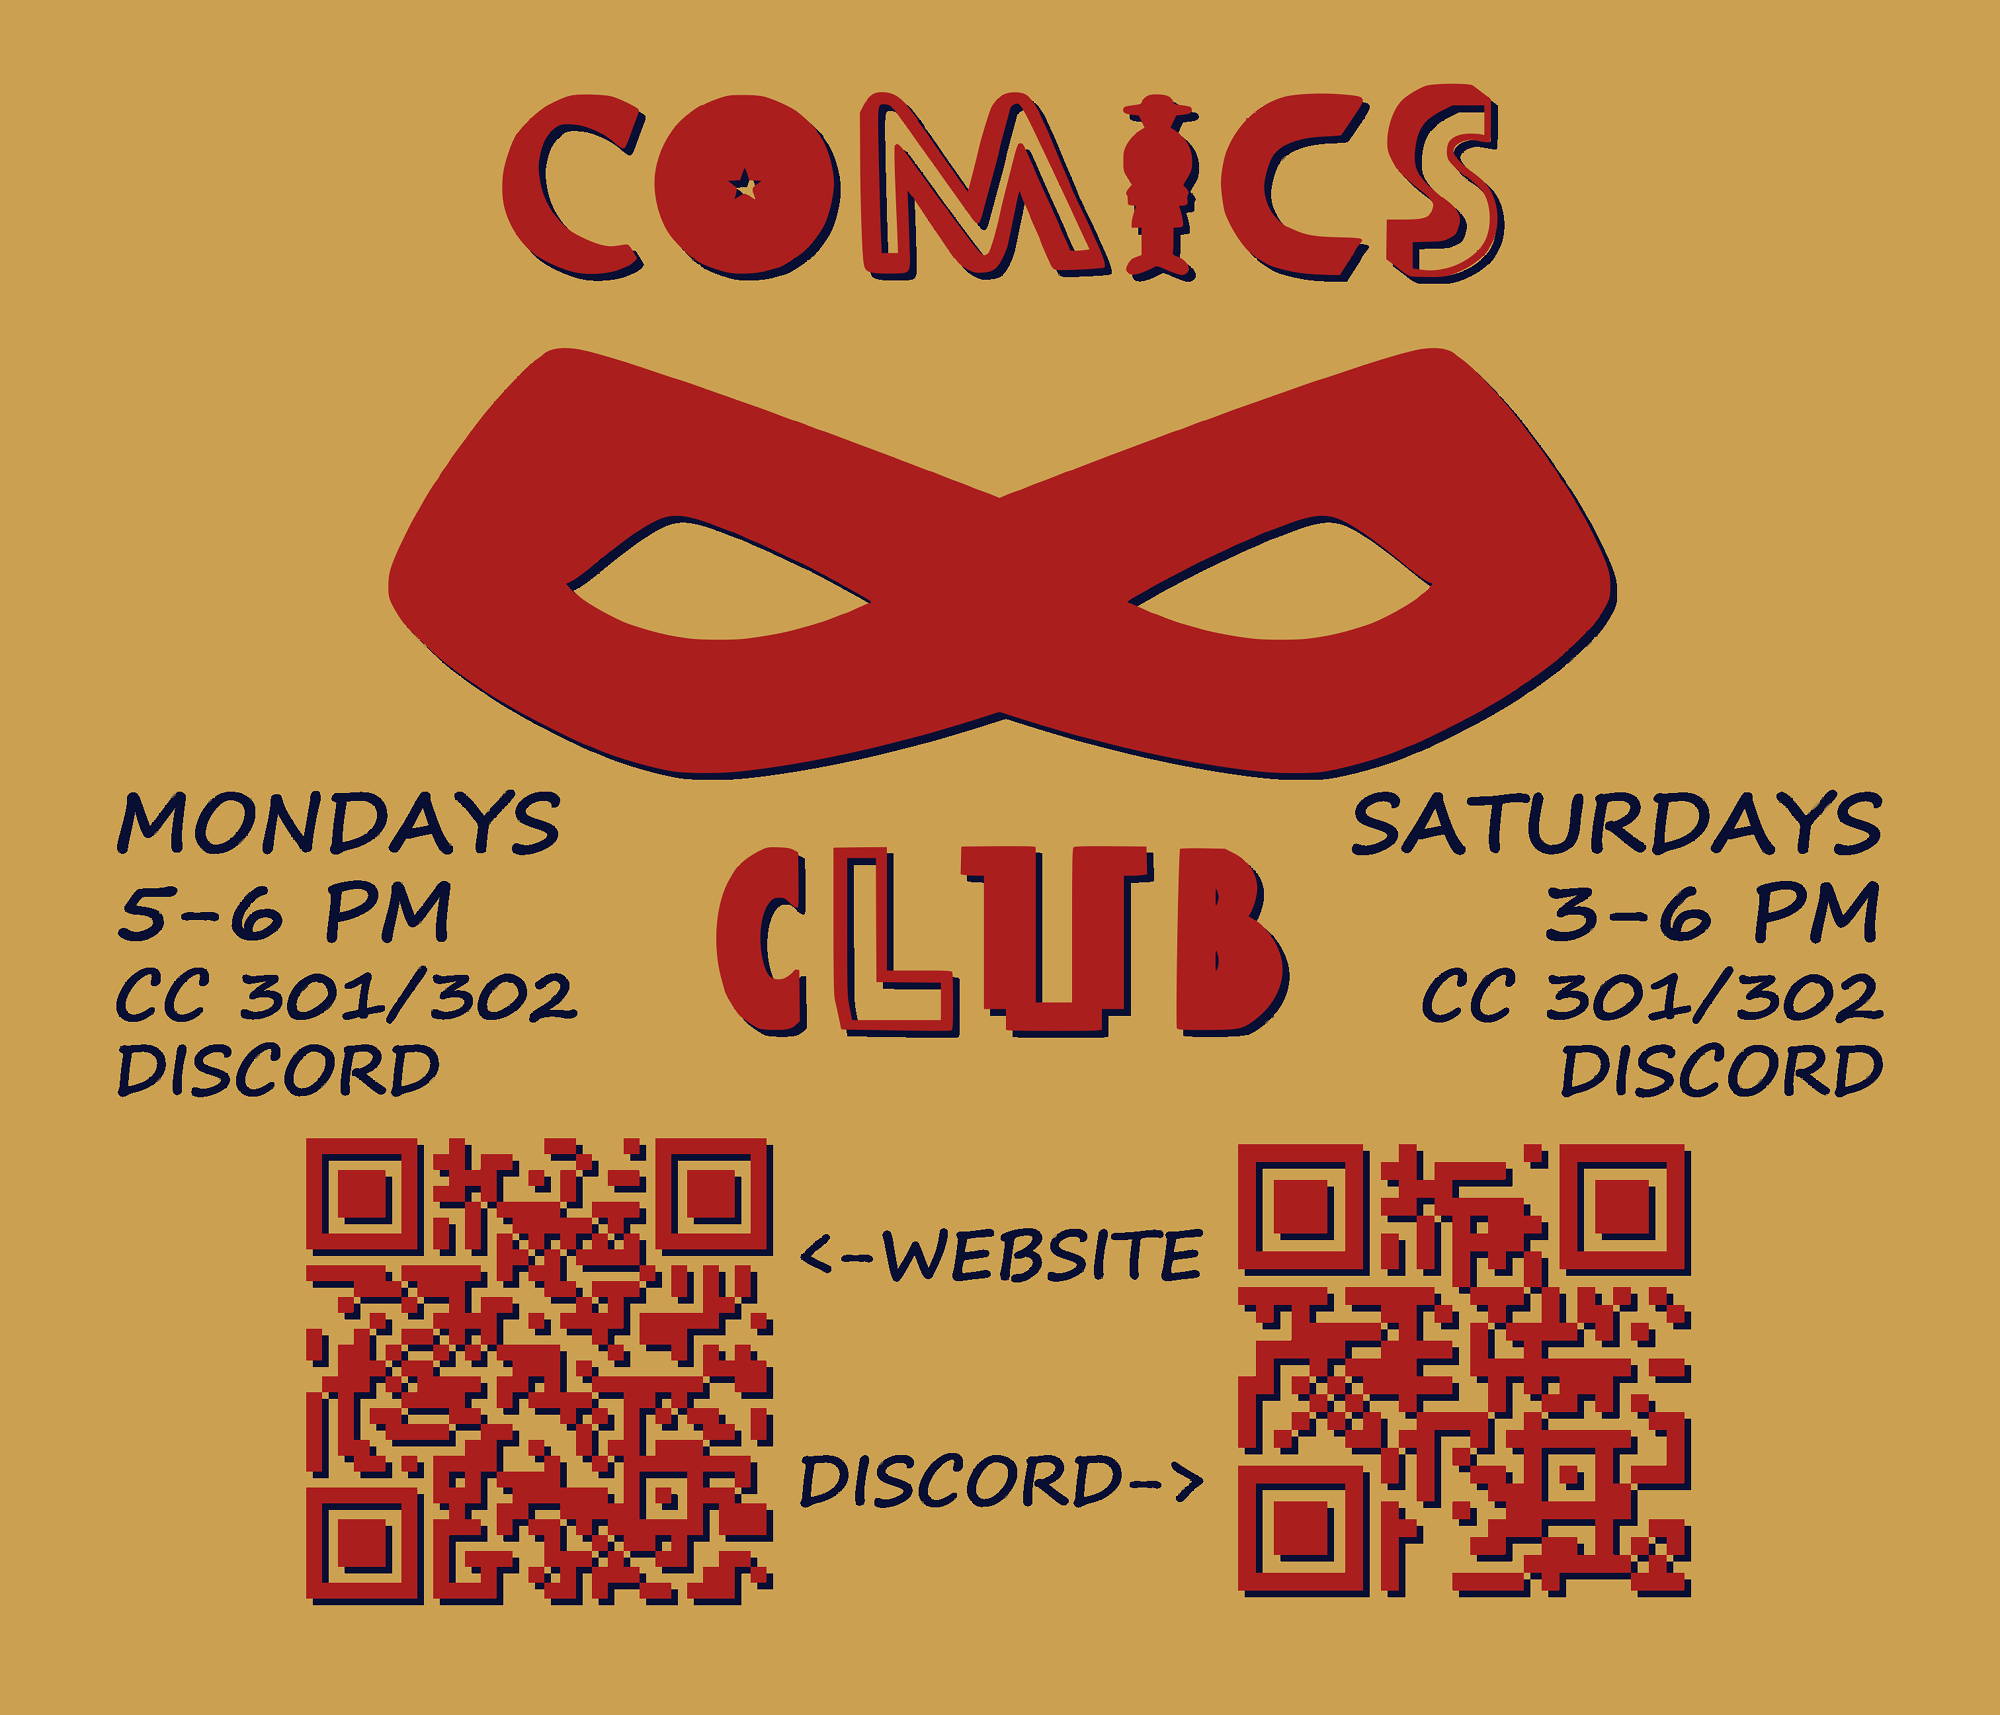
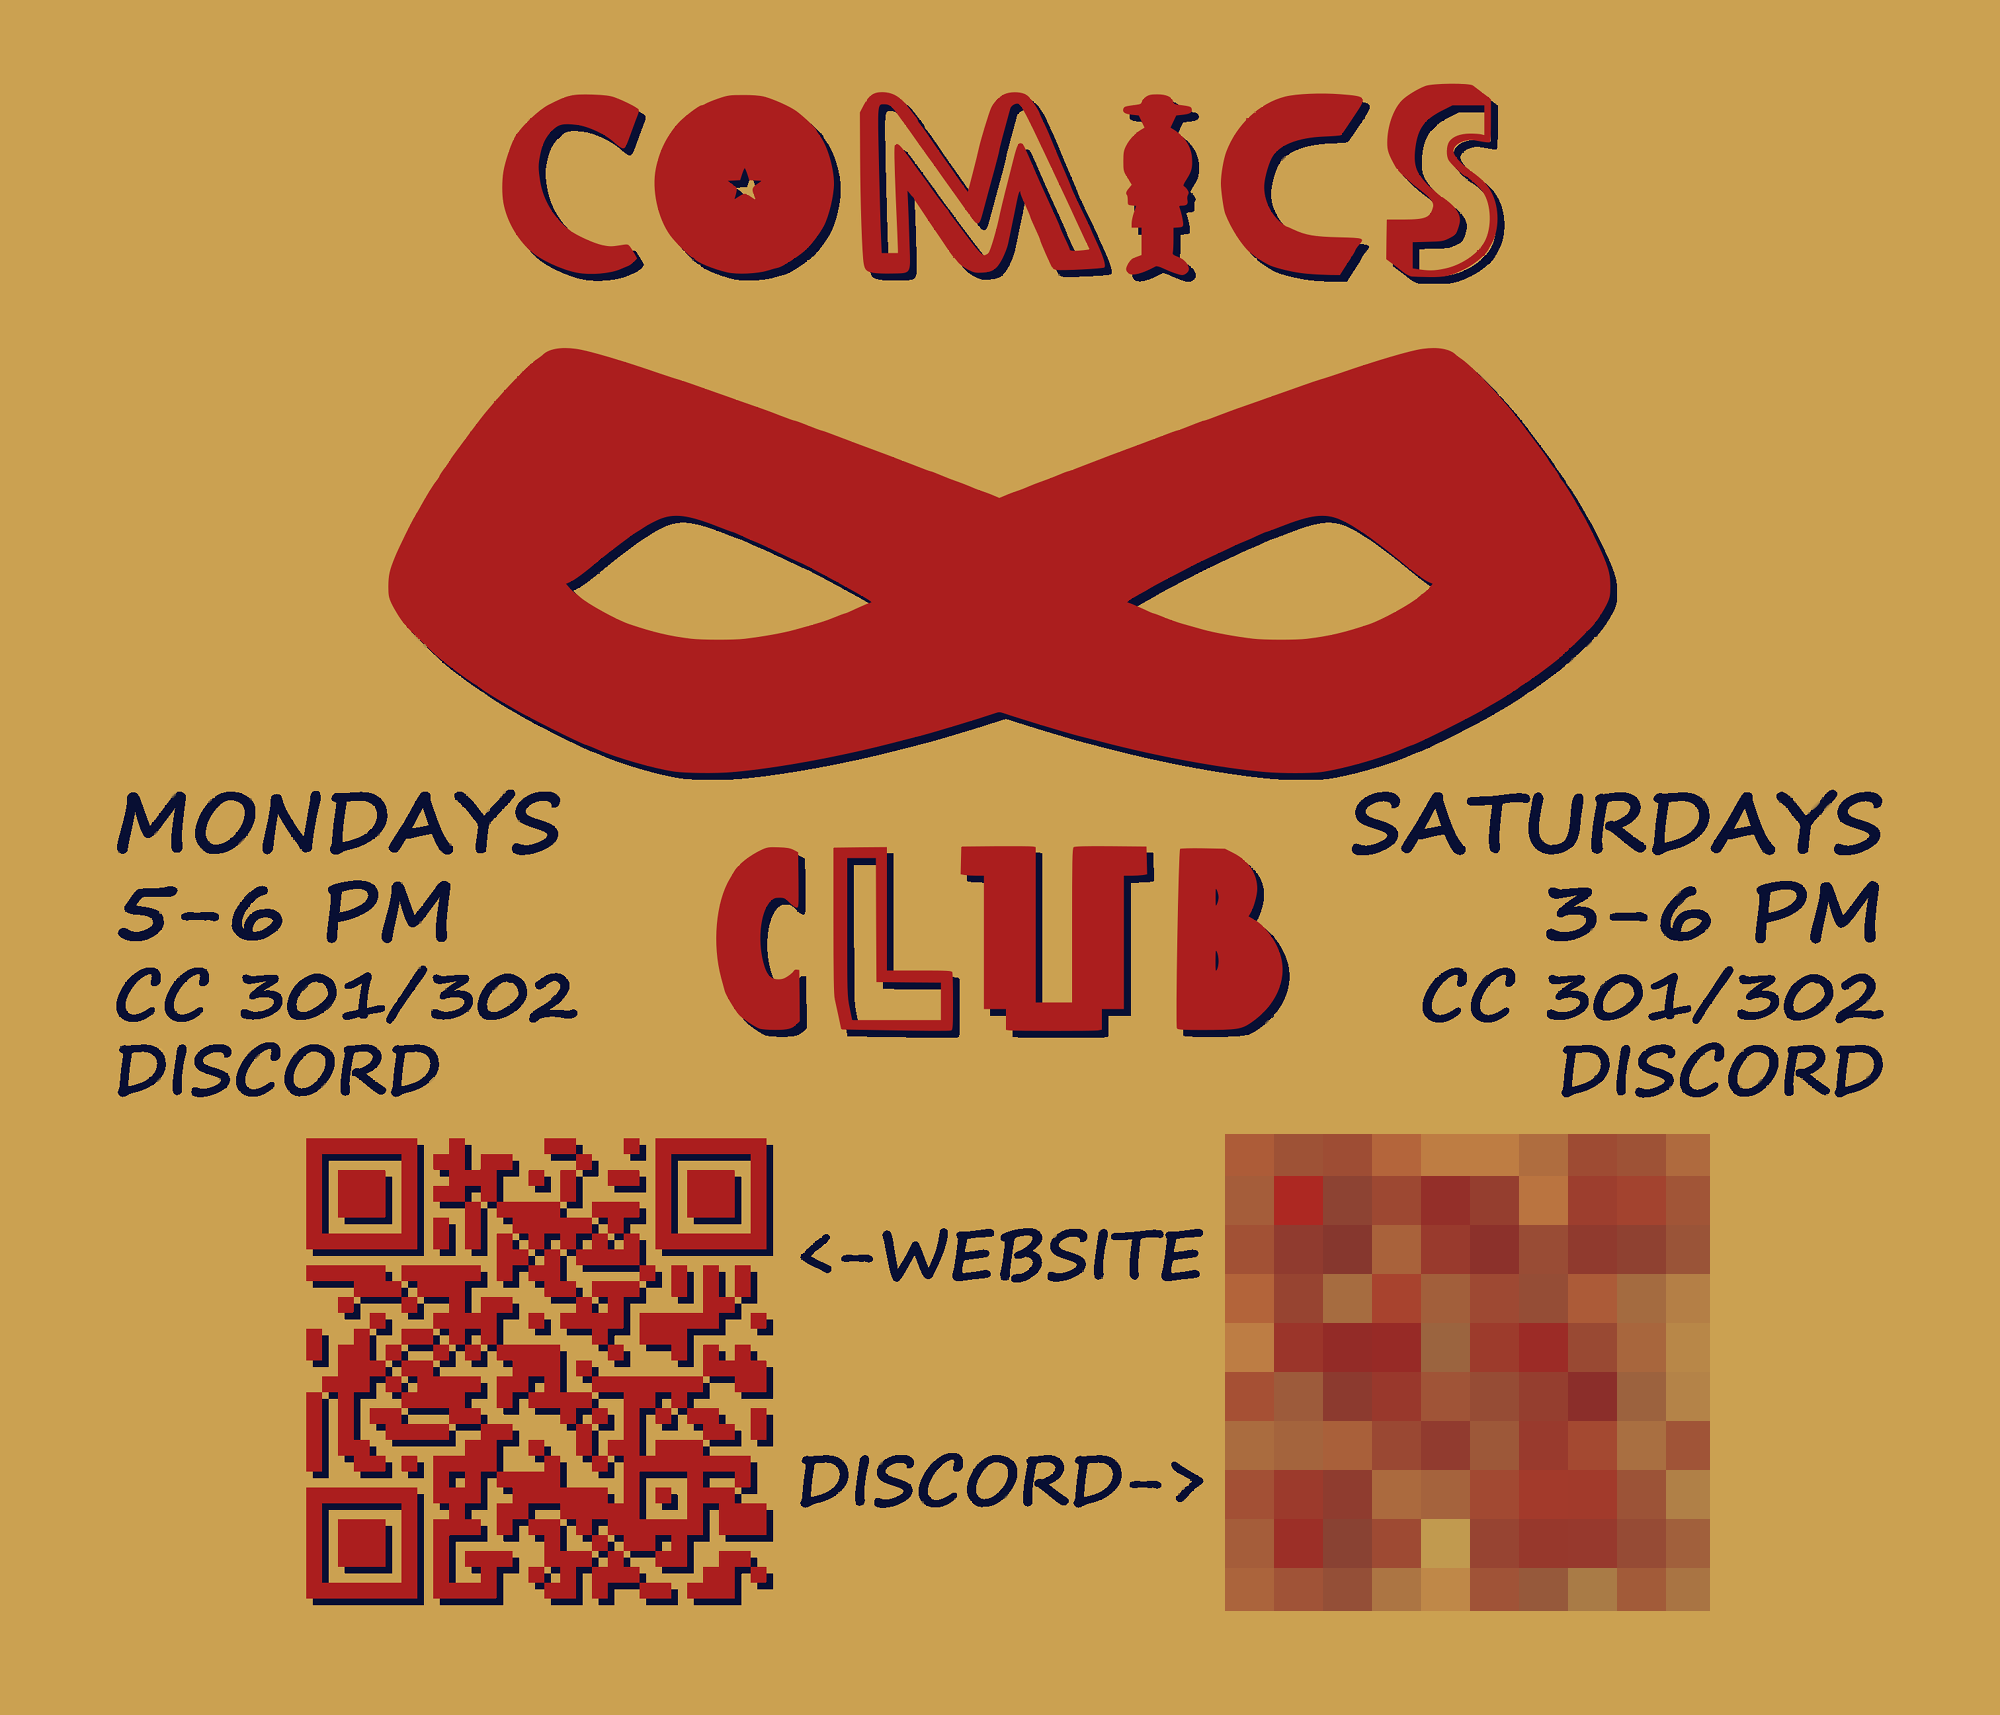
Added the Comics Club campaigns to the list.

Changed region(s): [[0.589, 0.649, 0.868, 0.958]]

diff --git a/content/portfolio/marketing.html b/content/portfolio/marketing.html
@@ -53,6 +53,7 @@
 
 <center><h2 class = "text">Legion of Allegheny Gamers</h2></center>
 <center><h3 class = "text">2019 Super Smash Bros. Ultimate Tournament Poster Campaign</h3></center>
+<center><h4 class = "text">February 2019</h4></center>
 <p class = "text">While I didn't work on the base design of the poster, I handled everything below the text about prizes and food.  There was some collaboration, but the vast majority of the calls to action (All but the, "Do you wanna Smash, bro?") were conceptualized and written by me, and all of the artwork and text was placed and formatted by me.</p>
 <p class = "text">The campaign was quite successful, allowing us to host our largesat tournament up to that point.  In 2019, we saw 233% as many signees as we saw in the 2018, many of them from outside the regular members of the club.  In the actual tournament, we saw 185% of the number of 2018 participants, though that wasn't related to the campaign so much as it was to school work and other obligations.</p>
 <p class = "text">When compared to the following year, when I was off the board and hadn't assisted with any advertising efforts, the event only saw 19% increase in particpants compared to my year's 85% increase.  I don't have access to the number of signees, however, but I know that there were fewer no-shows in 2020 than there were in 2019.</p>
@@ -81,11 +82,21 @@
 
 <center><h2 class = "text">Senior Comprehensive Project</h2></center>
 <center><h3 class = "text">Study Subject Campaign</h3></center>
-<p class = "text">My senior thesis, while intended to have had two studies, was only able to have one.  However, I was still able to make a poster in regards to it, and acquire participants within a rather tight deadline of 10 days.  I was successfully able to reach 12 people, and gather 11 particpants, only 9 of which were entered into the study due to a need to keep groupings evenly-sized.</p>
+<center><h4 class = "text">March 2020</h4></center>
+<p class = "text">My senior thesis, while intended to have had two studies, was only able to have one.  However, I was still able to make a poster in regards to it, and acquire participants within a rather tight deadline of 10 days.  I was successfully able to reach my goal of 12 people, and gather 11 particpants (one had a last minute conflict), only 9 of which were entered into the study due to a need to keep groupings evenly-sized.</p>
 <p class = "text">This was done around mid-term season, shortly before Spring Break, which never quite ended due to COVID-19, so finding 12 people who knew nothing about the goals of my final project was difficult, but the posters worked well enough to get the majority of the poster-initiated responses immediately after they went up around Allegheny College's Henderson Campus Center.</p>
 <img src = "images/portfolio/marketing/SM3DW.png">
 
-
+<center><h2 class = "text">Allegheny College Comics Club</h2></center>
+<center><h3 class = "text">Fall 2020 Campaigns</h3></center>
+<p class = "text">In my final semester at Allegheny, I continued to serve as the president of Comics Club until we could organize a vote.  During that time, I worked to create 2 separate promotional campaigns for the club.</p>
+<p class = "text">The first campaign was a new banner poster.  This poster was printed out at massive scale and hung from a balcony in the Henderson Campus Center.  The poster features a logo conceptualized by a club member, and created by me, as well as functioning QR codes that link to the club's website and the "Geek Life" Discord server.</p>
+<p class = "text">Fall 2020, was slow for growth, but we had a few new freshman reach out upon seeing the poster once it went up, which is honestly more than previous posters have led to.</p>
+<img src = "images/portfolio/marketing/CC2020.png">
+<p class = "text">The second campaign was for our Art-tober event, a series of prompts to inspire art for the month of October that was inspired by a similar event with, suffice it to say, stricter legal protections and prohibitions against the use of art from the event for things outside of the event.  This list was posted on the Comics Club website, as well as placed around all corners of the Henderson Campus Center in the form of small cutout squares.</p>
+<p class = "text">As this event's reach was not really traceable, I cannot honestly say how well the small squares scattered around the Campus Center did to get people interested in Art-Tober, but I do know that some were taken from their locations around the art wing, as I was working there for a work study.</p>
+<p class = "text">That said, as someone capable of critically looking at past actions, I can say without a doubt that putting some call to action to make the artwork traceable (such as the inclusion of a hashtag, or direct mentions of social media to post on) would have been ideal for ensuring our ability to track the reach of the campaign.  You live and you learn, I suppose.</p>
+<img src = "images/portfolio/marketing/Arttober2020.png">
 
 <center><h1 class="text">Links</h1></center>
 <div>
